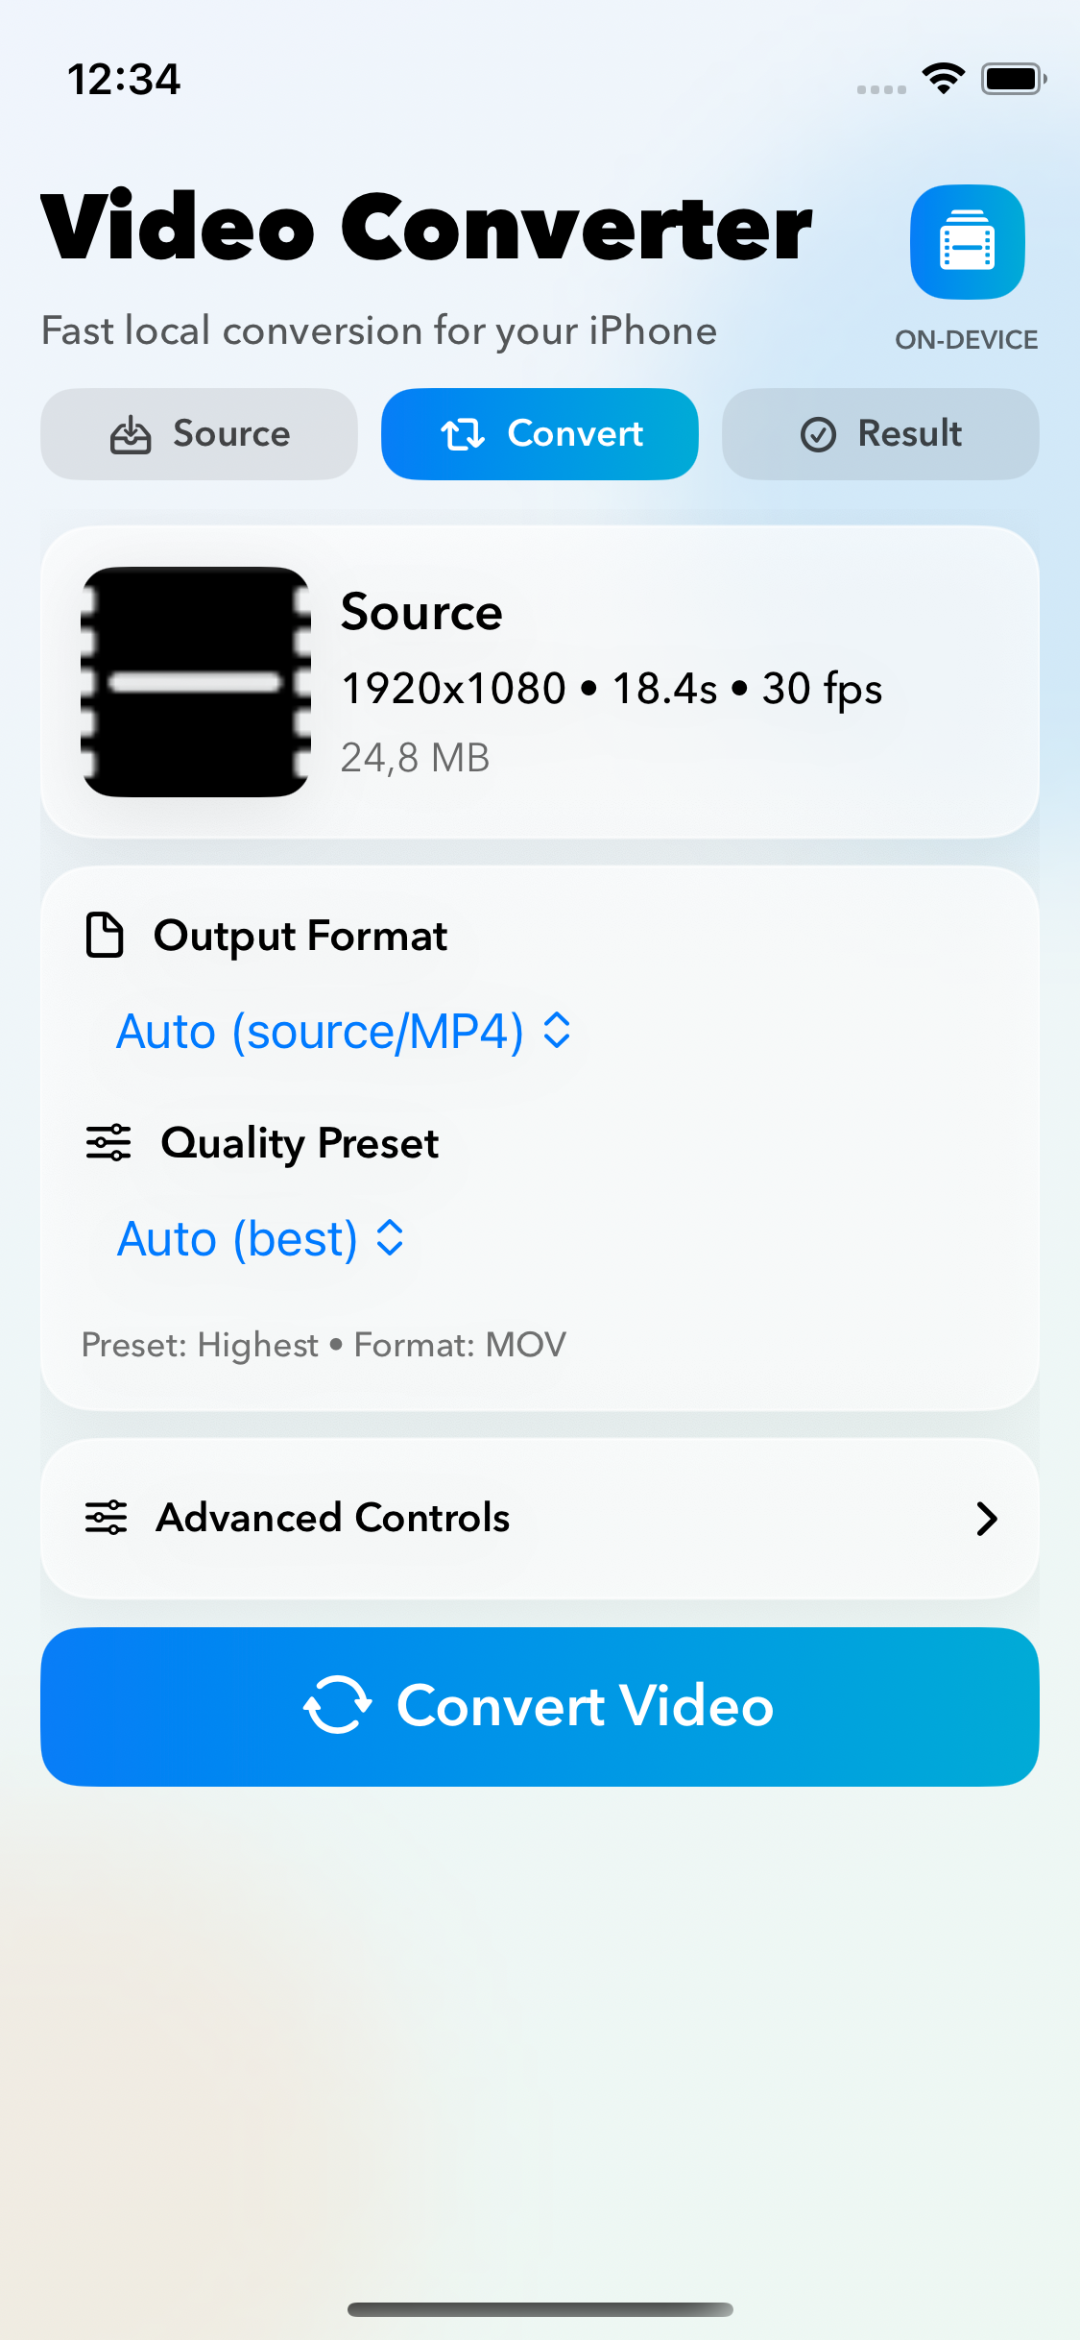
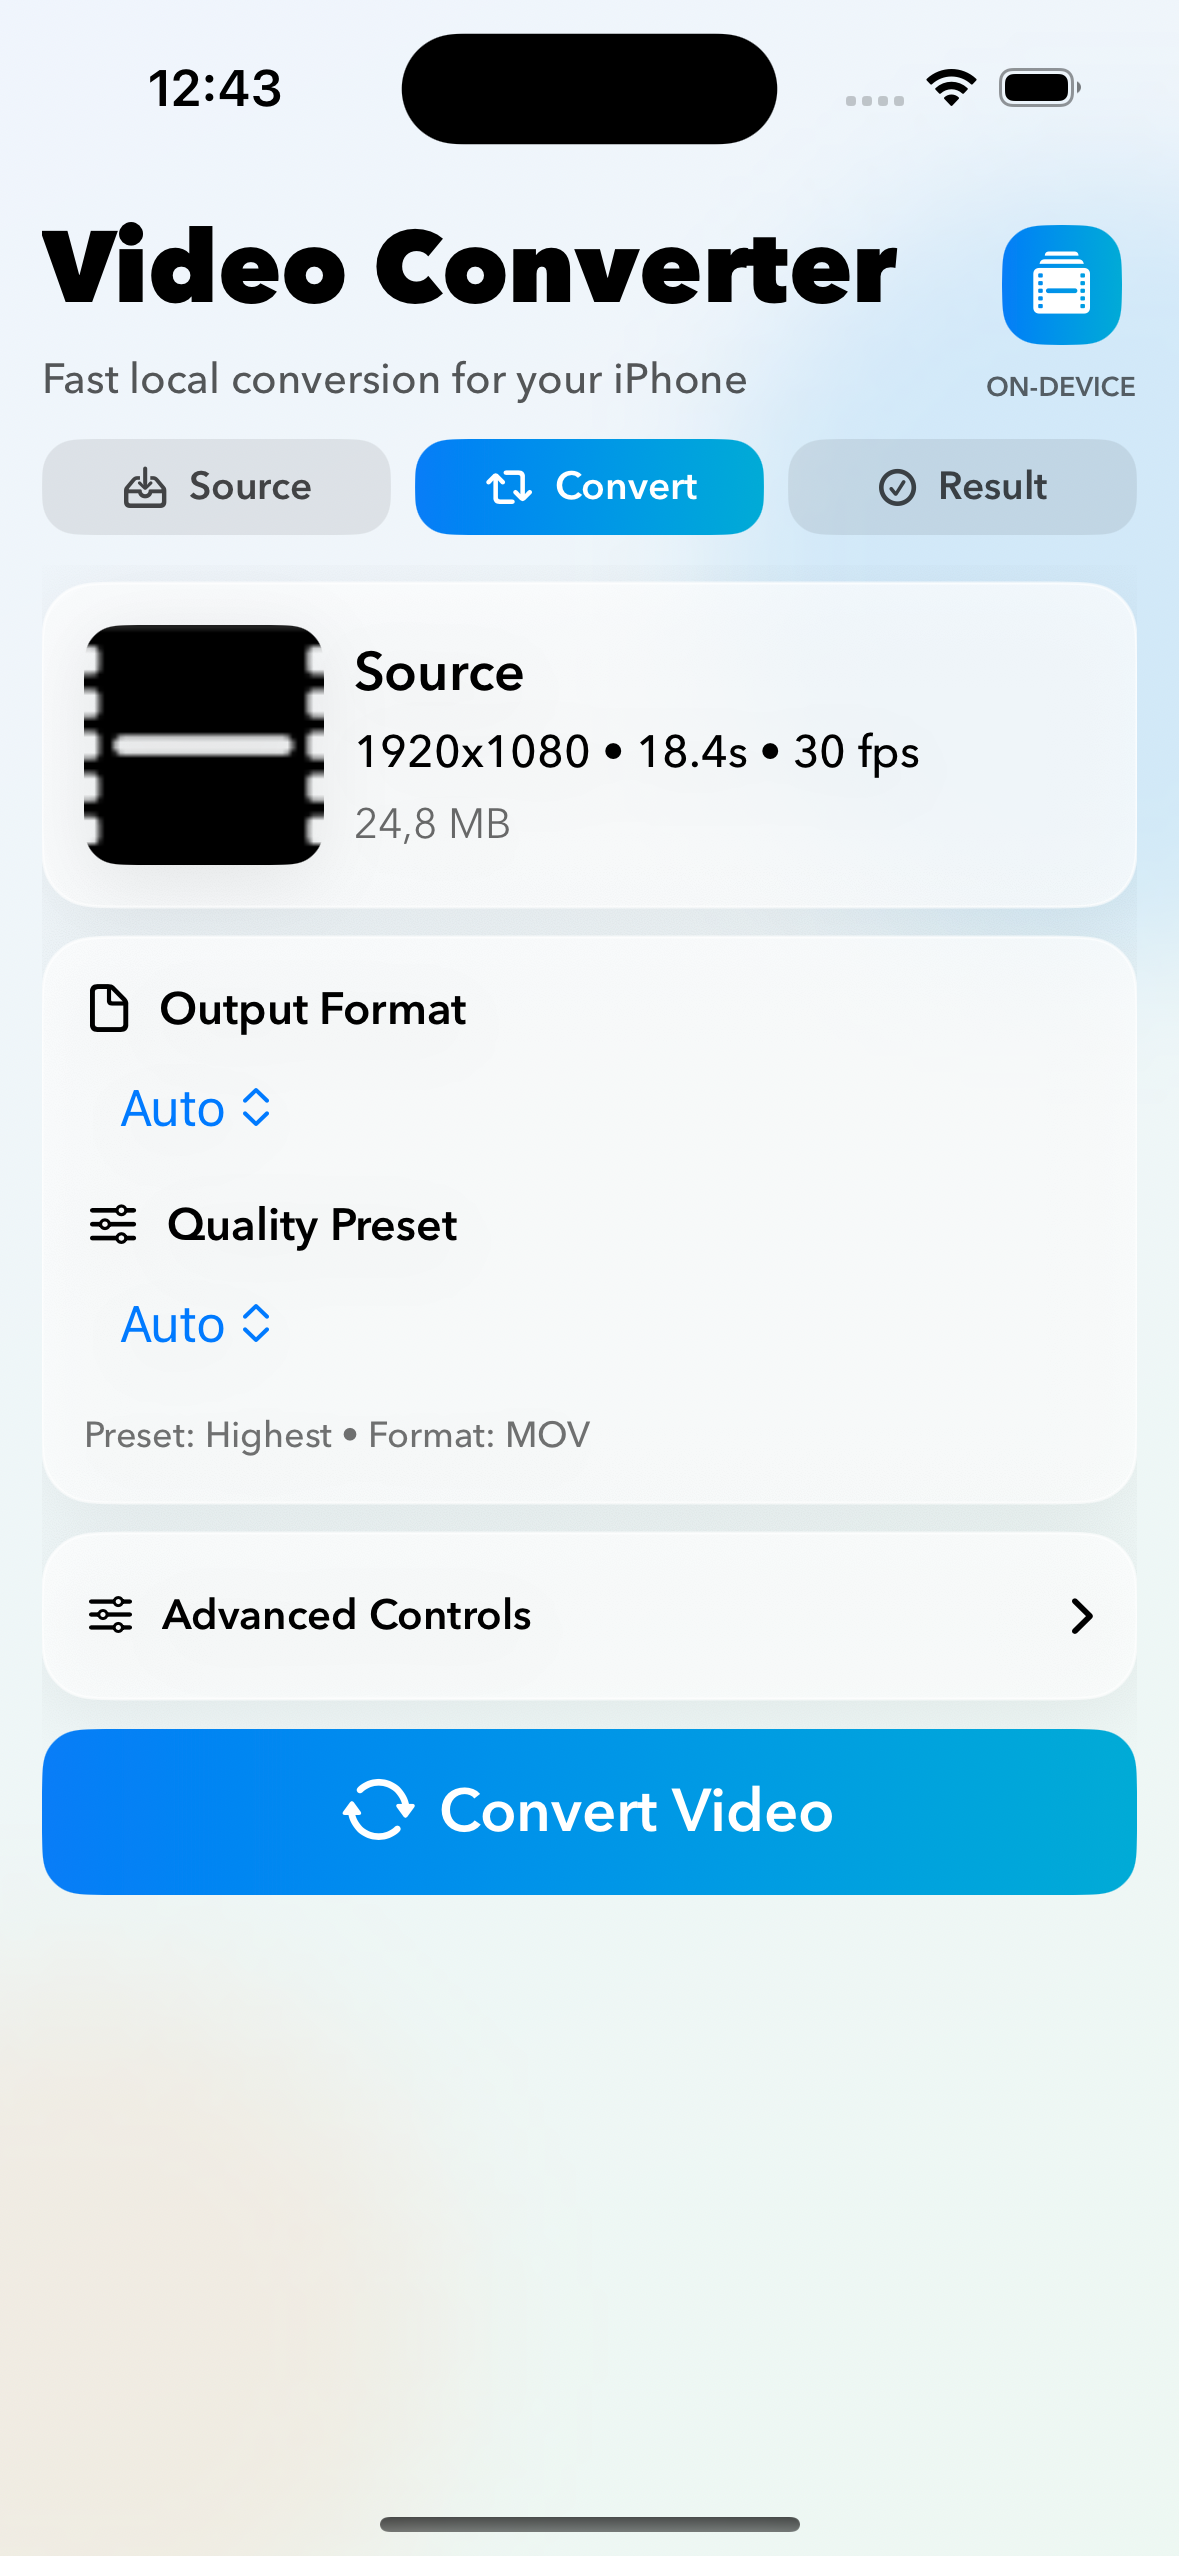
Use Auto label and refresh regular iPhone showcase

diff --git a/AwesomeApp/App/VideoCompressionViewModel.swift b/AwesomeApp/App/VideoCompressionViewModel.swift
@@ -98,7 +98,7 @@ final class VideoConversionViewModel: ObservableObject {
 
     var presetOptions: [OutputPresetOption] {
         var options: [OutputPresetOption] = [
-            OutputPresetOption(id: OutputPresetOption.autoID, title: "Auto (best)")
+            OutputPresetOption(id: OutputPresetOption.autoID, title: "Auto")
         ]
 
         for capability in capabilities {
@@ -109,7 +109,7 @@ final class VideoConversionViewModel: ObservableObject {
 
     var fileTypeOptions: [OutputFileTypeOption] {
         var options: [OutputFileTypeOption] = [
-            OutputFileTypeOption(id: OutputFileTypeOption.autoID, title: "Auto (source/MP4)")
+            OutputFileTypeOption(id: OutputFileTypeOption.autoID, title: "Auto")
         ]
 
         let identifiers: [String]

diff --git a/README.md b/README.md
@@ -4,7 +4,7 @@
 It converts source videos into any output format/preset combination that iOS reports as compatible for the selected file.
 
 ## Showcase
-### iPhone mini
+### iPhone (Regular)
 <p>
   <img src="showcase/step-source.png" alt="Step source" width="220" />
   <img src="showcase/step-convert.png" alt="Step convert" width="220" />
